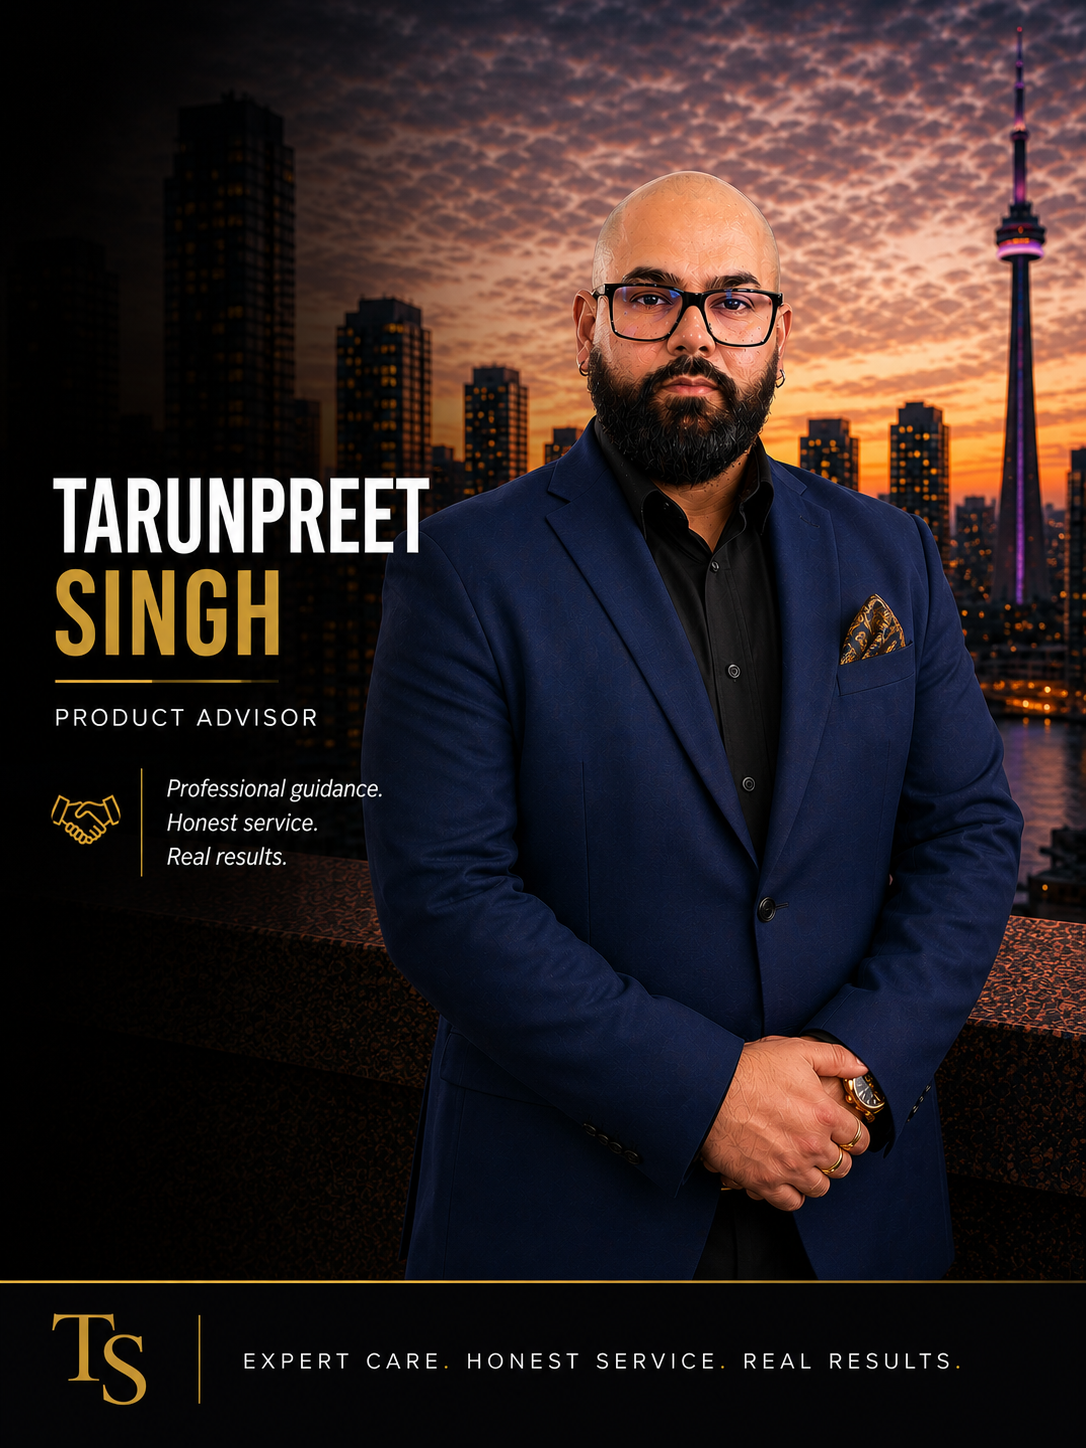
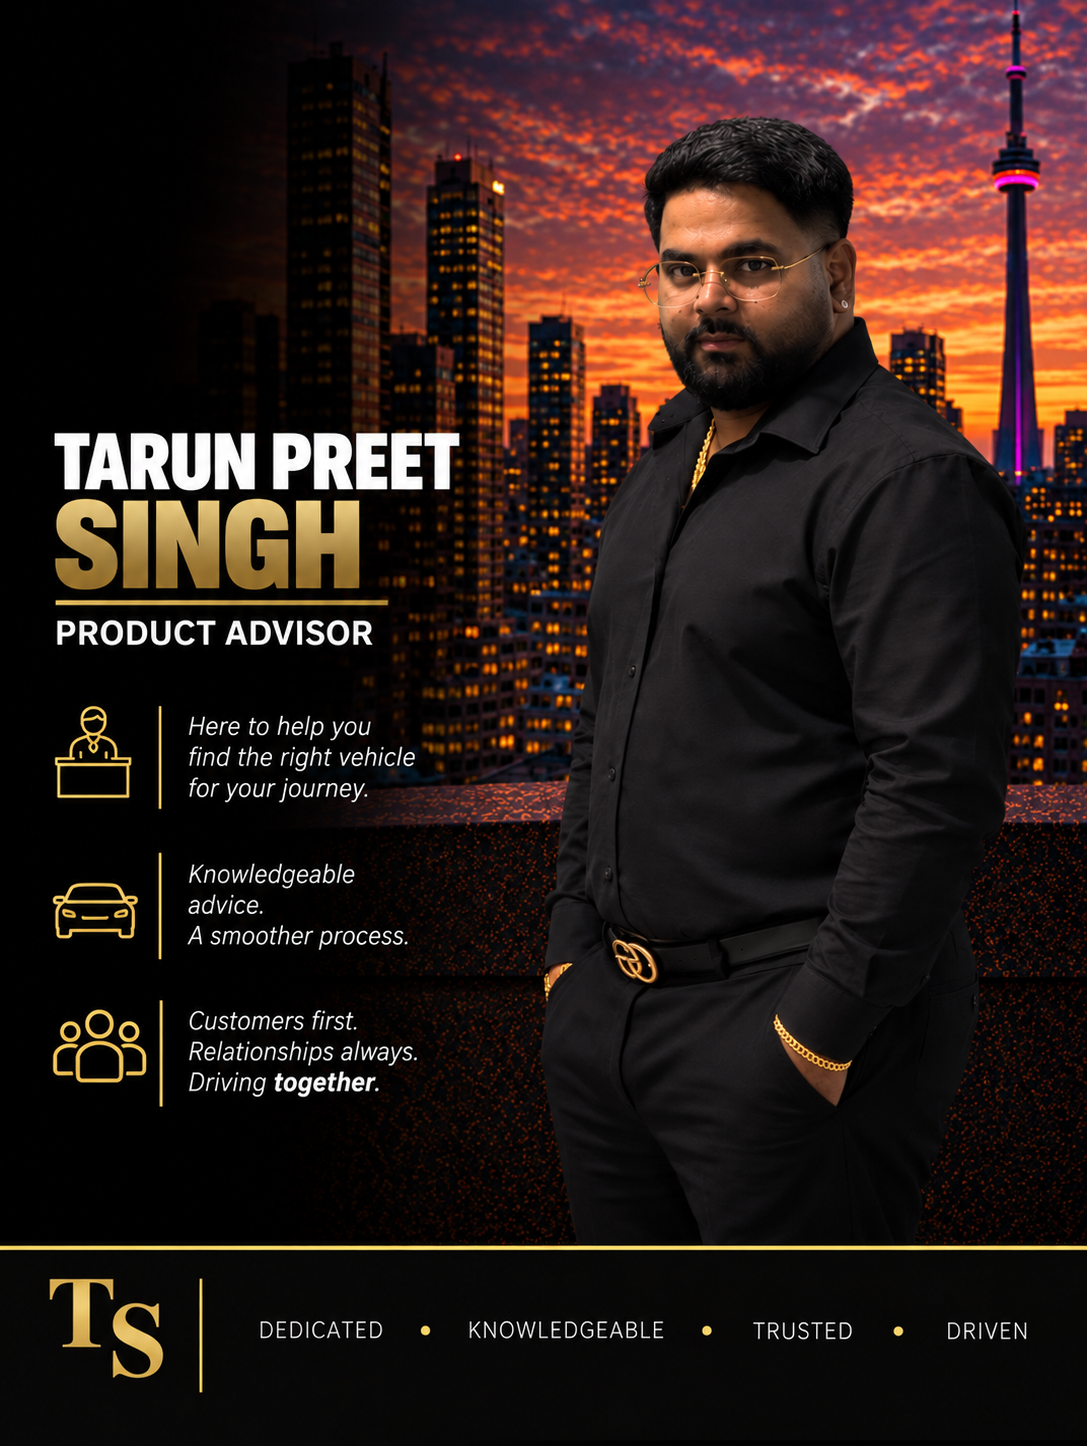
Add Sal Adamo and Ejay Adamo; new Tarunpreet Singh photo
Sal Adamo (Vice President of Operations) joins Leadership; Ejay Adamo
(Marketing Manager) joins Operations & Marketing. Both are email-only
cards, matching the pattern already used for Mohammed Amodwala.

Tarunpreet Singh keeps his ext and email, but takes the new flyer.

Ejay's flyer arrived 1024x1536 (2:3) while the house standard is 3:4.
.gmc-img renders at natural ratio inside a stretch-aligned flex row, so
a 2:3 card stretches its whole row and leaves dead space under the other
two cards' text. Trimmed 171px of empty sky off the top to reach 3:4 --
cropping the bottom would eat the "EA" footer bar, and padding the sides
left the gold rule short of the edge.

Roster is now 34 people across 12 departments.

Claude-Session: https://claude.ai/code/session_01JK9uJuqJ3R4JgtxL4eK6SR

diff --git a/team-edealer.embed.html b/team-edealer.embed.html
@@ -44,6 +44,18 @@
               </div>
             </div>
           </div>
+          <div class="gmc-cell">
+            <div class="gmc-box">
+              <div class="gmc-img"><img src="https://golden-mile-team-page.pages.dev/team-photos/Sal%20Adamo.webp" alt="Sal Adamo" loading="lazy" width="800" height="1067"></div>
+              <div class="gmc-details">
+                <div class="gmc-name">Sal Adamo</div>
+                <div class="gmc-title">Vice President of Operations</div>
+              <ul class="gmc-contact">
+                <li><span class="gmc-ico gmc-ico-mail"></span><a href="mailto:salvatore@goldenmilechrysler.ca">salvatore@goldenmilechrysler.ca</a></li>
+              </ul>
+              </div>
+            </div>
+          </div>
         </div>
       </div>
       <div class="gmc-panel gmc-panel-1">
@@ -119,7 +131,7 @@
           </div>
           <div class="gmc-cell">
             <div class="gmc-box">
-              <div class="gmc-img"><img src="https://golden-mile-team-page.pages.dev/team-photos/Tarunpreet%20Singh.webp" alt="Tarunpreet Singh" loading="lazy" width="800" height="1067"></div>
+              <div class="gmc-img"><img src="https://golden-mile-team-page.pages.dev/team-photos/Tarunpreet%20Singh.webp" alt="Tarunpreet Singh" loading="lazy" width="800" height="1064"></div>
               <div class="gmc-details">
                 <div class="gmc-name">Tarunpreet Singh</div>
                 <div class="gmc-title">Product Advisor</div>
@@ -414,6 +426,18 @@
               <ul class="gmc-contact">
                 <li><span class="gmc-ico gmc-ico-phone"></span><span>Ext. 2316</span></li>
                 <li><span class="gmc-ico gmc-ico-mail"></span><a href="mailto:johan@goldenmilechrysler.ca">johan@goldenmilechrysler.ca</a></li>
+              </ul>
+              </div>
+            </div>
+          </div>
+          <div class="gmc-cell">
+            <div class="gmc-box">
+              <div class="gmc-img"><img src="https://golden-mile-team-page.pages.dev/team-photos/Ejay%20Adamo.webp" alt="Ejay Adamo" loading="lazy" width="800" height="1066"></div>
+              <div class="gmc-details">
+                <div class="gmc-name">Ejay Adamo</div>
+                <div class="gmc-title">Marketing Manager</div>
+              <ul class="gmc-contact">
+                <li><span class="gmc-ico gmc-ico-mail"></span><a href="mailto:ejay@goldenmilechrysler.ca">ejay@goldenmilechrysler.ca</a></li>
               </ul>
               </div>
             </div>

diff --git a/team-edealer.html b/team-edealer.html
@@ -44,6 +44,18 @@
               </div>
             </div>
           </div>
+          <div class="gmc-cell">
+            <div class="gmc-box">
+              <div class="gmc-img"><img src="https://golden-mile-team-page.pages.dev/team-photos/Sal%20Adamo.webp" alt="Sal Adamo" loading="lazy" width="800" height="1067"></div>
+              <div class="gmc-details">
+                <div class="gmc-name">Sal Adamo</div>
+                <div class="gmc-title">Vice President of Operations</div>
+              <ul class="gmc-contact">
+                <li><span class="gmc-ico gmc-ico-mail"></span><a href="mailto:salvatore@goldenmilechrysler.ca">salvatore@goldenmilechrysler.ca</a></li>
+              </ul>
+              </div>
+            </div>
+          </div>
         </div>
       </div>
       <div class="gmc-panel gmc-panel-1">
@@ -119,7 +131,7 @@
           </div>
           <div class="gmc-cell">
             <div class="gmc-box">
-              <div class="gmc-img"><img src="https://golden-mile-team-page.pages.dev/team-photos/Tarunpreet%20Singh.webp" alt="Tarunpreet Singh" loading="lazy" width="800" height="1067"></div>
+              <div class="gmc-img"><img src="https://golden-mile-team-page.pages.dev/team-photos/Tarunpreet%20Singh.webp" alt="Tarunpreet Singh" loading="lazy" width="800" height="1064"></div>
               <div class="gmc-details">
                 <div class="gmc-name">Tarunpreet Singh</div>
                 <div class="gmc-title">Product Advisor</div>
@@ -414,6 +426,18 @@
               <ul class="gmc-contact">
                 <li><span class="gmc-ico gmc-ico-phone"></span><span>Ext. 2316</span></li>
                 <li><span class="gmc-ico gmc-ico-mail"></span><a href="mailto:johan@goldenmilechrysler.ca">johan@goldenmilechrysler.ca</a></li>
+              </ul>
+              </div>
+            </div>
+          </div>
+          <div class="gmc-cell">
+            <div class="gmc-box">
+              <div class="gmc-img"><img src="https://golden-mile-team-page.pages.dev/team-photos/Ejay%20Adamo.webp" alt="Ejay Adamo" loading="lazy" width="800" height="1066"></div>
+              <div class="gmc-details">
+                <div class="gmc-name">Ejay Adamo</div>
+                <div class="gmc-title">Marketing Manager</div>
+              <ul class="gmc-contact">
+                <li><span class="gmc-ico gmc-ico-mail"></span><a href="mailto:ejay@goldenmilechrysler.ca">ejay@goldenmilechrysler.ca</a></li>
               </ul>
               </div>
             </div>

diff --git a/team-edealer.local.html b/team-edealer.local.html
@@ -53,6 +53,18 @@
               </div>
             </div>
           </div>
+          <div class="gmc-cell">
+            <div class="gmc-box">
+              <div class="gmc-img"><img src="team-photos/Sal%20Adamo.webp" alt="Sal Adamo" loading="lazy" width="800" height="1067"></div>
+              <div class="gmc-details">
+                <div class="gmc-name">Sal Adamo</div>
+                <div class="gmc-title">Vice President of Operations</div>
+              <ul class="gmc-contact">
+                <li><span class="gmc-ico gmc-ico-mail"></span><a href="mailto:salvatore@goldenmilechrysler.ca">salvatore@goldenmilechrysler.ca</a></li>
+              </ul>
+              </div>
+            </div>
+          </div>
         </div>
       </div>
       <div class="gmc-panel gmc-panel-1">
@@ -128,7 +140,7 @@
           </div>
           <div class="gmc-cell">
             <div class="gmc-box">
-              <div class="gmc-img"><img src="team-photos/Tarunpreet%20Singh.webp" alt="Tarunpreet Singh" loading="lazy" width="800" height="1067"></div>
+              <div class="gmc-img"><img src="team-photos/Tarunpreet%20Singh.webp" alt="Tarunpreet Singh" loading="lazy" width="800" height="1064"></div>
               <div class="gmc-details">
                 <div class="gmc-name">Tarunpreet Singh</div>
                 <div class="gmc-title">Product Advisor</div>
@@ -423,6 +435,18 @@
               <ul class="gmc-contact">
                 <li><span class="gmc-ico gmc-ico-phone"></span><span>Ext. 2316</span></li>
                 <li><span class="gmc-ico gmc-ico-mail"></span><a href="mailto:johan@goldenmilechrysler.ca">johan@goldenmilechrysler.ca</a></li>
+              </ul>
+              </div>
+            </div>
+          </div>
+          <div class="gmc-cell">
+            <div class="gmc-box">
+              <div class="gmc-img"><img src="team-photos/Ejay%20Adamo.webp" alt="Ejay Adamo" loading="lazy" width="800" height="1066"></div>
+              <div class="gmc-details">
+                <div class="gmc-name">Ejay Adamo</div>
+                <div class="gmc-title">Marketing Manager</div>
+              <ul class="gmc-contact">
+                <li><span class="gmc-ico gmc-ico-mail"></span><a href="mailto:ejay@goldenmilechrysler.ca">ejay@goldenmilechrysler.ca</a></li>
               </ul>
               </div>
             </div>

diff --git a/team-d2c.html b/team-d2c.html
@@ -53,6 +53,18 @@
         </div>
       </div>
 
+      <div class="col-md-6 col-lg-4">
+        <div class="staff-card">
+          <div class="staff-photo-wrap"><img src="https://golden-mile-team-page.pages.dev/team-photos/Sal%20Adamo.webp" alt="Sal Adamo" class="staff-photo"></div>
+          <div class="staff-info">
+            <h3 class="staff-name">Sal Adamo</h3>
+            <p class="staff-role">Vice President of Operations</p>
+            <hr class="staff-divider">
+            <p class="staff-contact"><i class="fas fa-envelope icon"></i><a href="mailto:salvatore@goldenmilechrysler.ca">salvatore@goldenmilechrysler.ca</a></p>
+          </div>
+        </div>
+      </div>
+
     </div>
 
     
@@ -487,6 +499,18 @@
             <hr class="staff-divider">
             <p class="staff-contact"><i class="fas fa-phone icon"></i>Ext. 2316</p>
             <p class="staff-contact"><i class="fas fa-envelope icon"></i><a href="mailto:johan@goldenmilechrysler.ca">johan@goldenmilechrysler.ca</a></p>
+          </div>
+        </div>
+      </div>
+
+      <div class="col-md-6 col-lg-4">
+        <div class="staff-card">
+          <div class="staff-photo-wrap"><img src="https://golden-mile-team-page.pages.dev/team-photos/Ejay%20Adamo.webp" alt="Ejay Adamo" class="staff-photo"></div>
+          <div class="staff-info">
+            <h3 class="staff-name">Ejay Adamo</h3>
+            <p class="staff-role">Marketing Manager</p>
+            <hr class="staff-divider">
+            <p class="staff-contact"><i class="fas fa-envelope icon"></i><a href="mailto:ejay@goldenmilechrysler.ca">ejay@goldenmilechrysler.ca</a></p>
           </div>
         </div>
       </div>
